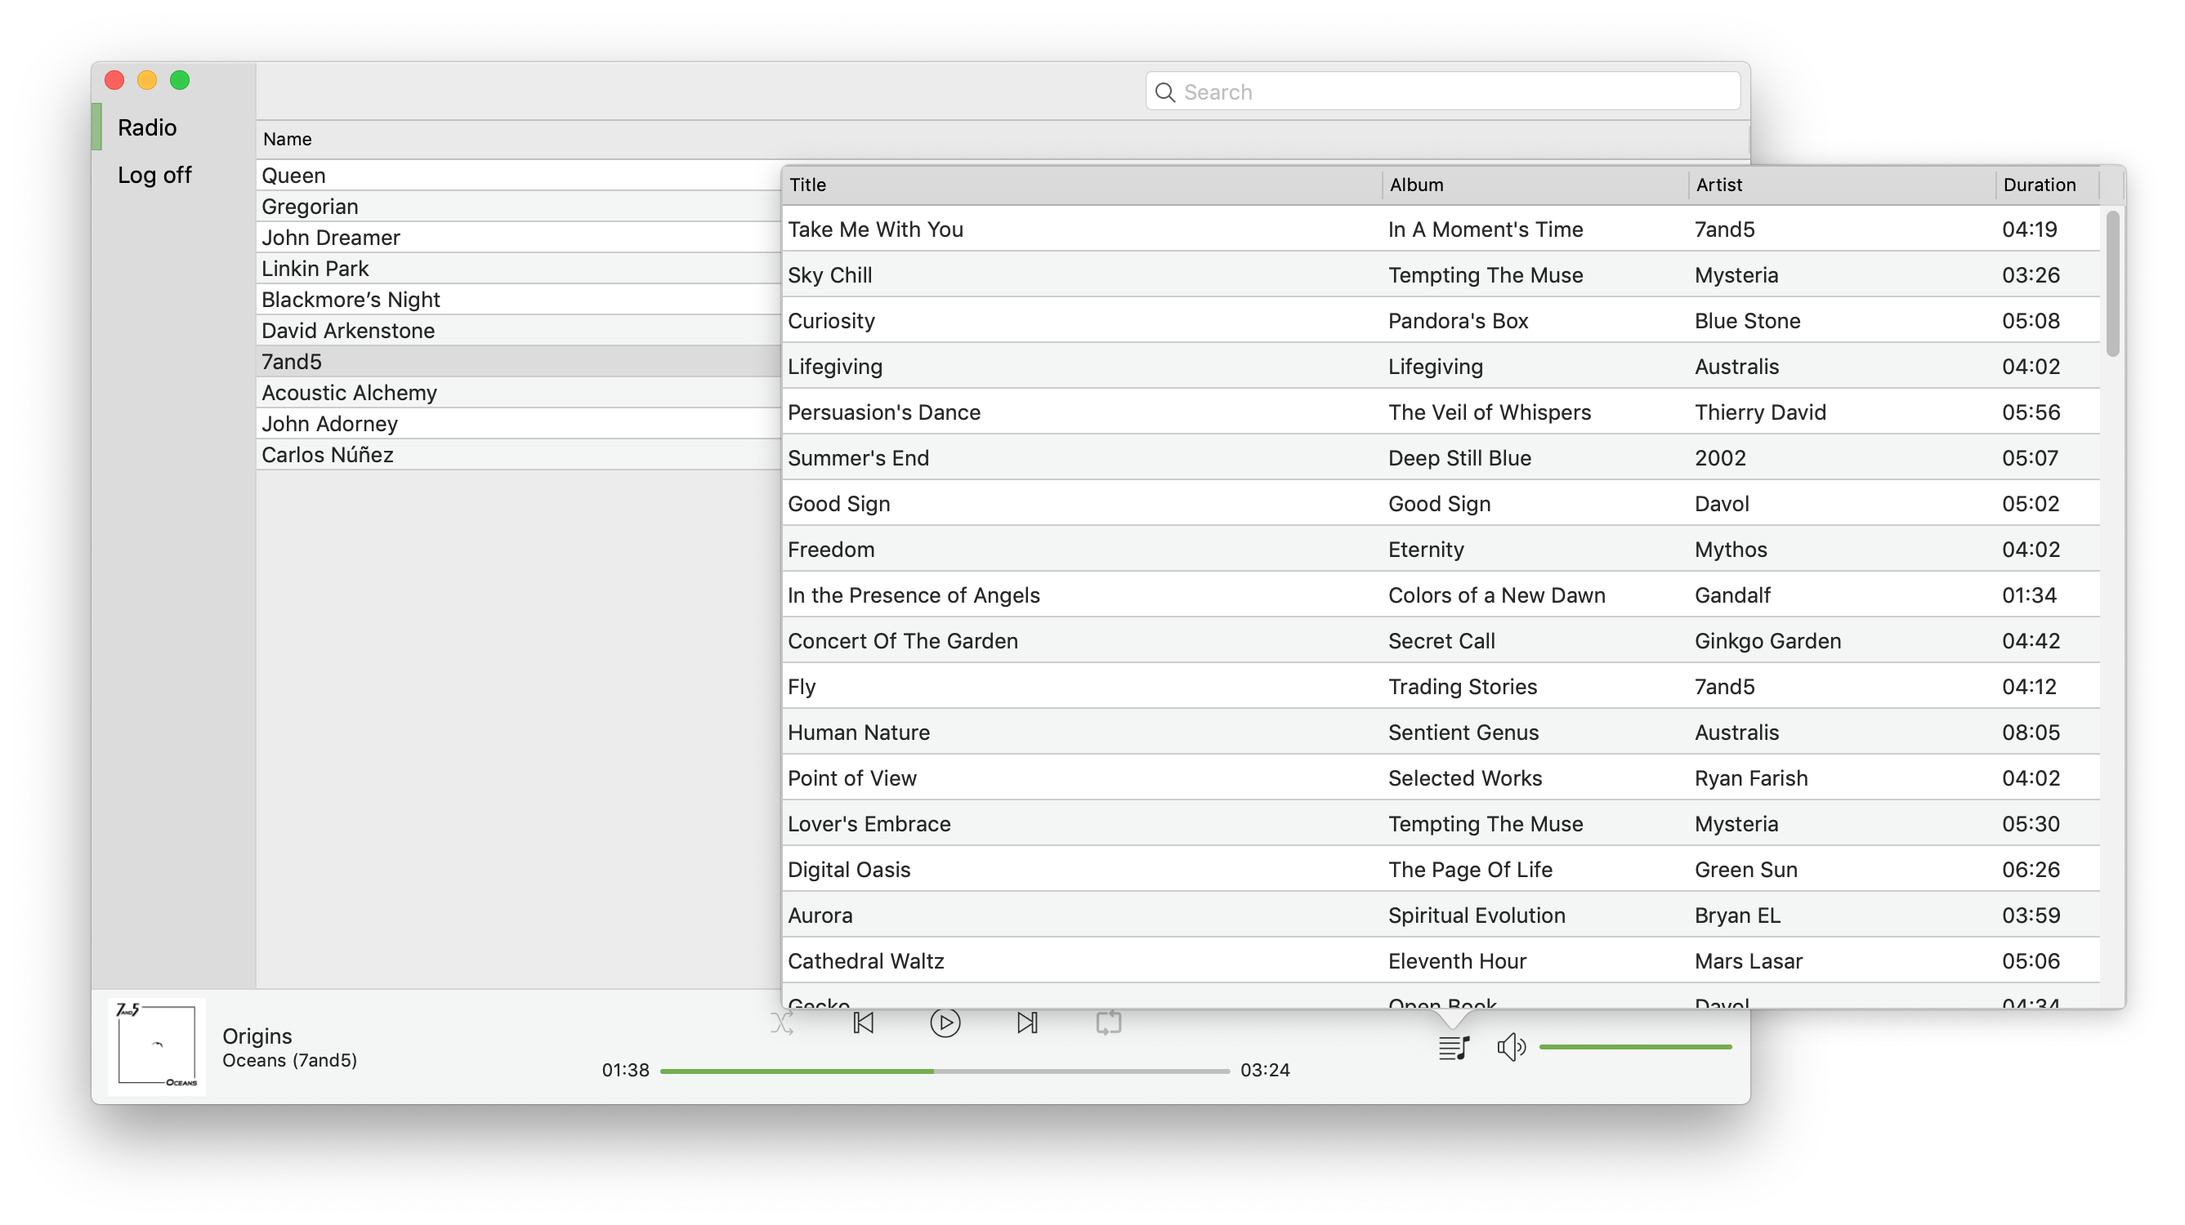
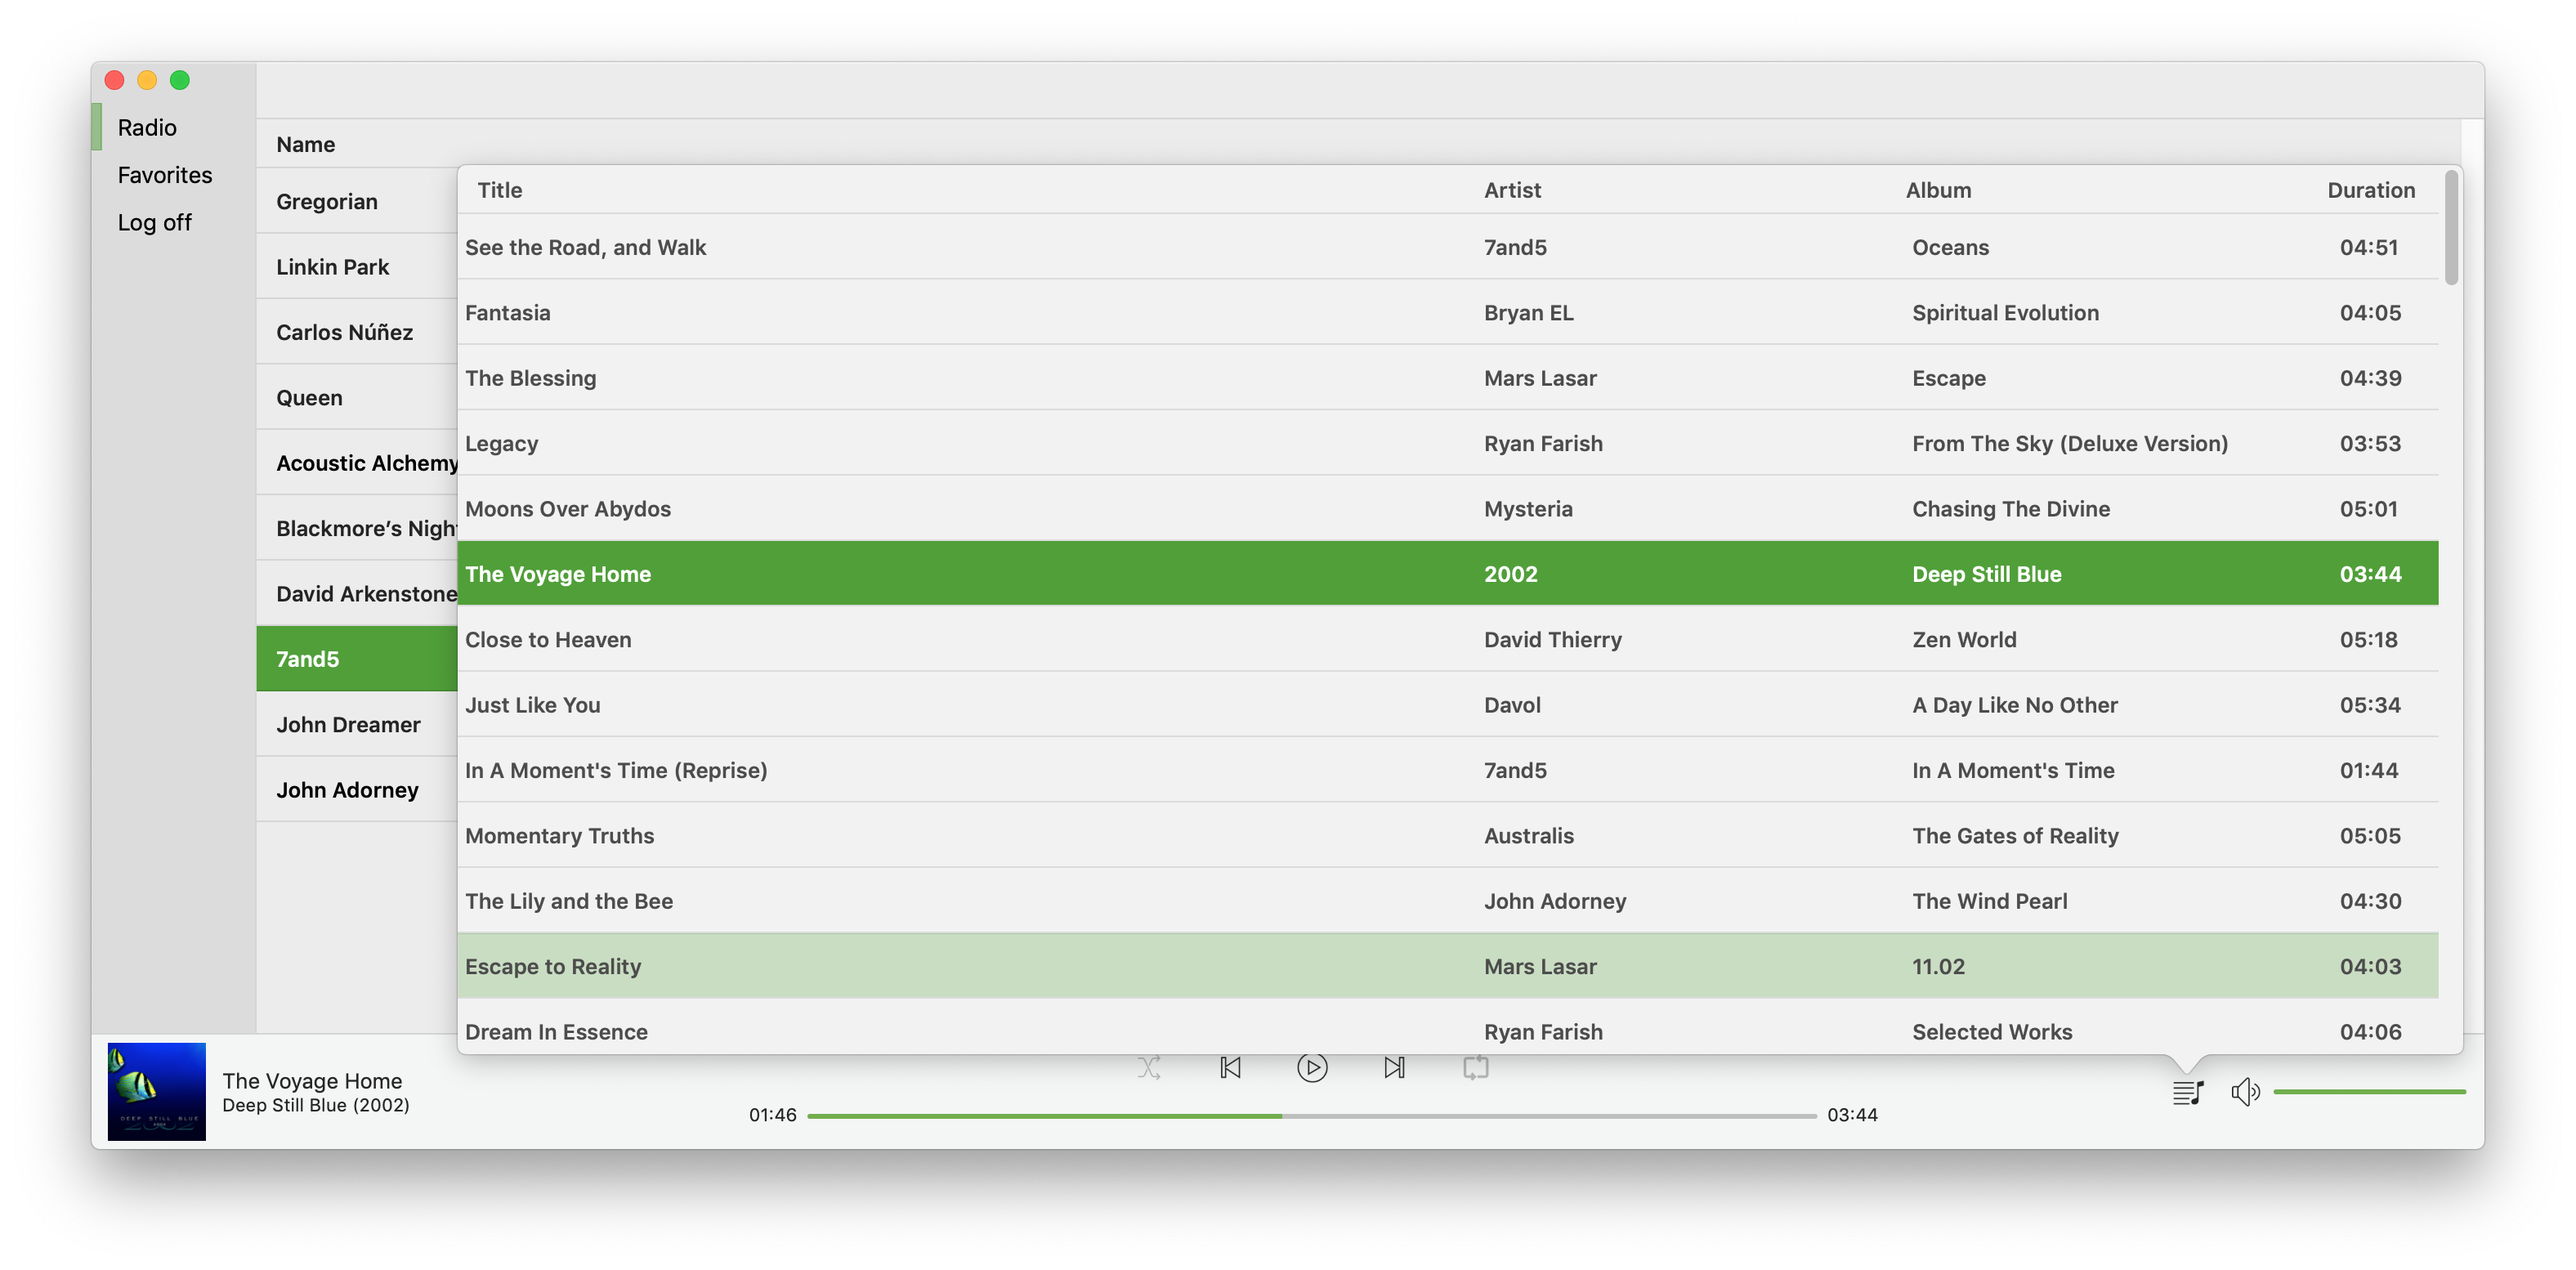
Update readme

diff --git a/Readme.md b/Readme.md
@@ -12,10 +12,11 @@ No affiliation with Google. Google Play is a trademark of Google Inc.
 Download latest version on [Releases](https://github.com/reloni/GoogleMusicClient/releases) page.
 
 ## Features
-This is early preview, only radio stations supported. In order to see radio station in app it should be added to user media library.
+This is early preview, only radio stations and favorites supported. In order to see data in app it should be added to user media library.
 - Native macOS light and dark themes
 - Media keys support (play, pause, next, previous)
 - Radio station playback
+- Favorites playlist playback
 
 ## Screenshots
 <table>
